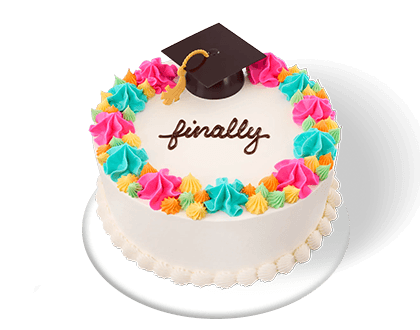
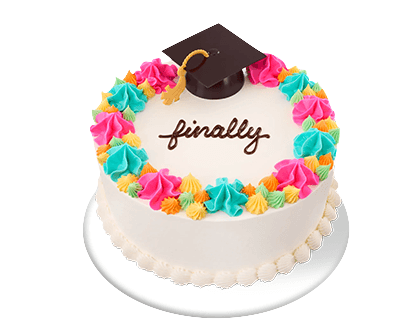
Converted phone numbers to links on Locations page

diff --git a/locations.html b/locations.html
@@ -48,7 +48,7 @@
               <summary>Kapolei</summary>
               <div class="myindent2">
                   <strong>Address</strong>: 590 Farrington Hwy Unit 91, Kapolei, HI 96707<br>
-                  <strong>Phone</strong>: [phone redacted]<br>
+                  <strong>Phone</strong>: <a href="tel:[phone redacted]">[phone redacted]</a><br>
                   <strong>Hours</strong>: Everyday 10 am - 10 pm<br>
                   <!--<strong>Store Number</strong>: 363036<br>-->
               </div>
@@ -57,7 +57,7 @@
               <summary>King St.</summary>
               <div class="myindent2">
                   <strong>Address</strong>: 1618 S King St, Honolulu, HI 96826<br>
-                  <strong>Phone</strong>: [phone redacted]<br/>
+                  <strong>Phone</strong>: <a href="tel:[phone redacted]">[phone redacted]</a><br/>
                   <strong>Hours</strong>: Everyday 10 am - 10 pm<br>
                   <!--<strong>Store Number</strong>: 362037<br>-->
               </div>
@@ -66,7 +66,7 @@
               <summary>Mililani</summary>
               <div class="myindent2">
                   <strong>Address</strong>: 95-1249 Meheula Pkwy, Mililani, HI 96789<br>
-                  <strong>Phone</strong>: [phone redacted]<br>
+                  <strong>Phone</strong>: <a href="tel:[phone redacted]">[phone redacted]</a><br>
                   <strong>Hours</strong>: Everyday: 10 am - 10 pm<br>
                   <!--<strong>Store Number</strong>: 342350<br>-->
               </div>
@@ -75,7 +75,7 @@
               <summary>Moanalua</summary>
               <div class="myindent2">
                   <strong>Address</strong>: 930 Valkenburgh St, Honolulu, HI 96818<br>
-                  <strong>Phone</strong>: [phone redacted]<br>
+                  <strong>Phone</strong>: <a href="tel:[phone redacted]">[phone redacted]</a><br>
                   <strong>Hours</strong>: Everyday 10:30 am - 10 pm<br>
               </div>
           </details>
@@ -83,7 +83,7 @@
               <summary>Kailua</summary>
               <div class="myindent2">
                   <strong>Address</strong>: 108 Hekili St, Kailua, HI 96734<br>
-                  <strong>Phone</strong>: [phone redacted]<br>
+                  <strong>Phone</strong>: <a href="tel:[phone redacted]">[phone redacted]</a><br>
                   <strong>Hours</strong>: Everyday 10 am - 10 pm<br>
                   <!--<strong>Store Number</strong>: 348162<br>-->
               </div>